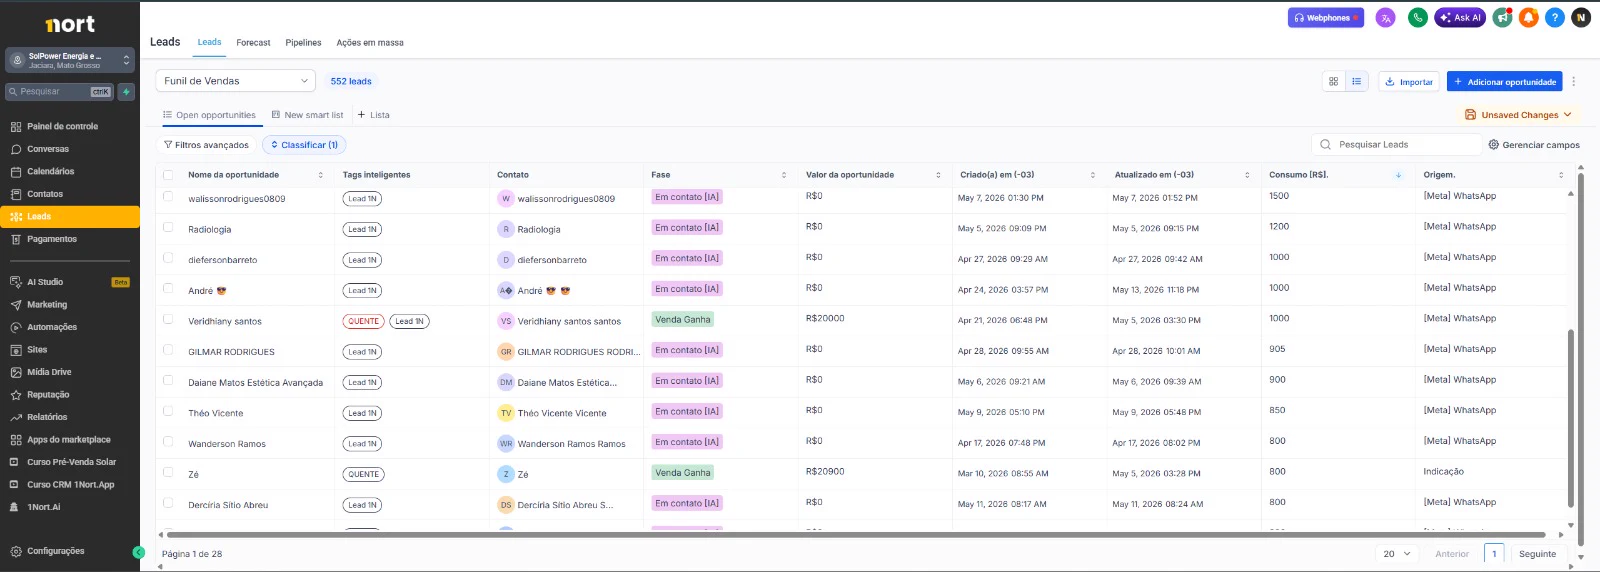
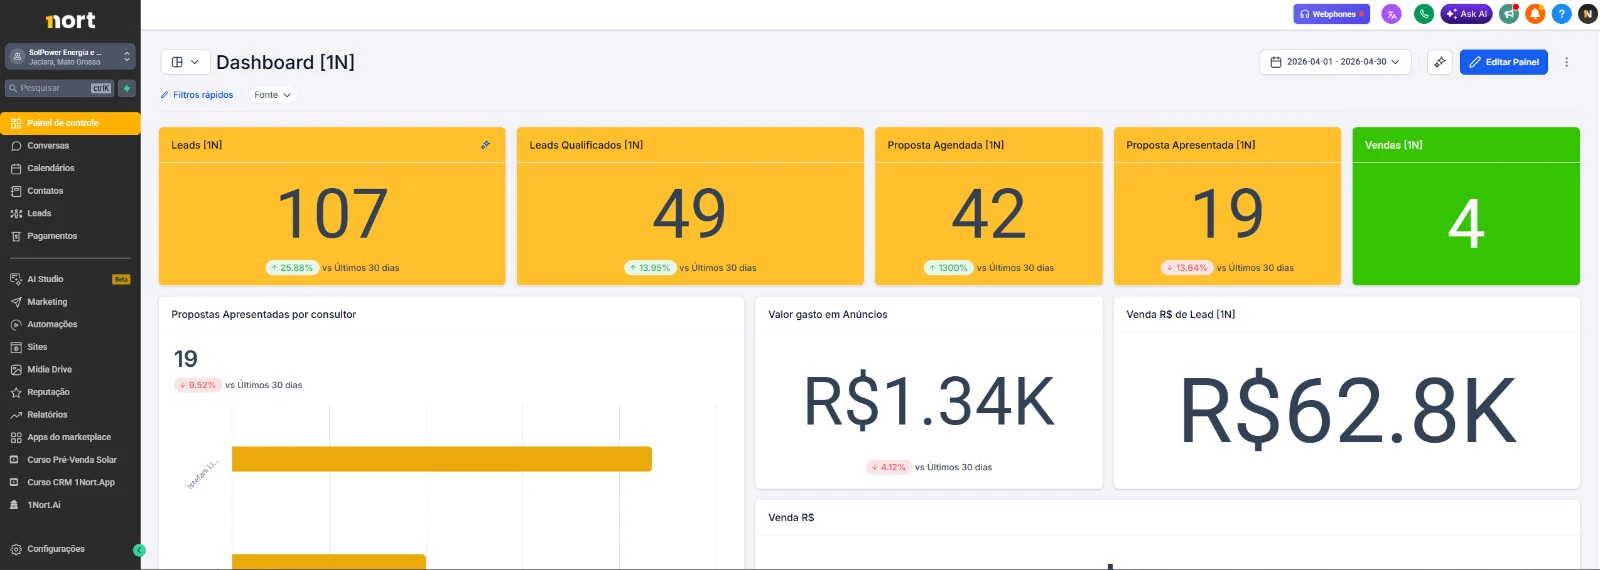
Sistema 1Nort (Sec O): 4 imagens painel-solar 1-4 substituem sistema antigas. Dash CRM Sec R: imagem correta Dashboard [1N] com KPIs (Leads/Vendas/Anuncios). CSS: object-fit contain pra nao cortar, setas dos carrosseis maiores (54px) com fundo amarelo translucido + hover preenchido

diff --git a/index.html b/index.html
@@ -1044,39 +1044,32 @@
           <div class="ia-system__viewport">
             <div class="ia-system__track" data-track>
               <figure class="ia-system__slide" data-zoom>
-                <img src="assets/images/dash-crm-1nort.webp" alt="Dashboard CRM 1Nort" loading="lazy" />
+                <img src="assets/images/sistema-1.webp" alt="Painel solar 1Nort · tela 1" loading="lazy" />
                 <button class="ia-system__zoom" aria-label="Expandir imagem">
                   <svg width="16" height="16" viewBox="0 0 24 24" fill="none"><path d="M15 3h6v6M9 21H3v-6M21 3l-7 7M3 21l7-7" stroke="currentColor" stroke-width="2" stroke-linecap="round" stroke-linejoin="round"/></svg>
                 </button>
-                <figcaption>Dashboard de leads e conversões</figcaption>
+                <figcaption>Painel 1Nort em operação</figcaption>
               </figure>
               <figure class="ia-system__slide" data-zoom>
-                <img src="assets/images/painel-ferramenta-1nort.webp" alt="Painel da ferramenta 1Nort" loading="lazy" />
+                <img src="assets/images/sistema-2.webp" alt="Painel solar 1Nort · tela 2" loading="lazy" />
                 <button class="ia-system__zoom" aria-label="Expandir imagem">
                   <svg width="16" height="16" viewBox="0 0 24 24" fill="none"><path d="M15 3h6v6M9 21H3v-6M21 3l-7 7M3 21l7-7" stroke="currentColor" stroke-width="2" stroke-linecap="round" stroke-linejoin="round"/></svg>
                 </button>
-                <figcaption>Painel operacional do funil</figcaption>
+                <figcaption>Painel 1Nort em operação</figcaption>
               </figure>
               <figure class="ia-system__slide" data-zoom>
-                <img src="assets/images/crm-lead-dissinho.webp" alt="Lead detalhado no CRM" loading="lazy" />
+                <img src="assets/images/sistema-3.webp" alt="Painel solar 1Nort · tela 3" loading="lazy" />
                 <button class="ia-system__zoom" aria-label="Expandir imagem">
                   <svg width="16" height="16" viewBox="0 0 24 24" fill="none"><path d="M15 3h6v6M9 21H3v-6M21 3l-7 7M3 21l7-7" stroke="currentColor" stroke-width="2" stroke-linecap="round" stroke-linejoin="round"/></svg>
                 </button>
-                <figcaption>Histórico completo de cada lead</figcaption>
+                <figcaption>Painel 1Nort em operação</figcaption>
               </figure>
               <figure class="ia-system__slide" data-zoom>
-                <img src="assets/images/funil-automacoes-kommo.webp" alt="Automações Kommo" loading="lazy" />
+                <img src="assets/images/sistema-4.webp" alt="Painel solar 1Nort · tela 4" loading="lazy" />
                 <button class="ia-system__zoom" aria-label="Expandir imagem">
                   <svg width="16" height="16" viewBox="0 0 24 24" fill="none"><path d="M15 3h6v6M9 21H3v-6M21 3l-7 7M3 21l7-7" stroke="currentColor" stroke-width="2" stroke-linecap="round" stroke-linejoin="round"/></svg>
                 </button>
-                <figcaption>Automações conectadas ponta a ponta</figcaption>
-              </figure>
-              <figure class="ia-system__slide" data-zoom>
-                <img src="assets/images/funil-vendas-ganhas.webp" alt="Funil de vendas ganhas" loading="lazy" />
-                <button class="ia-system__zoom" aria-label="Expandir imagem">
-                  <svg width="16" height="16" viewBox="0 0 24 24" fill="none"><path d="M15 3h6v6M9 21H3v-6M21 3l-7 7M3 21l7-7" stroke="currentColor" stroke-width="2" stroke-linecap="round" stroke-linejoin="round"/></svg>
-                </button>
-                <figcaption>Vendas ganhas e métricas em tempo real</figcaption>
+                <figcaption>Painel 1Nort em operação</figcaption>
               </figure>
             </div>
           </div>

diff --git a/css/style.css b/css/style.css
@@ -5413,8 +5413,9 @@ h1, h2, h3, h4, h5 {
 .ia-system__slide img {
   width: 100%;
   height: auto;
-  aspect-ratio: 16 / 9;
-  object-fit: cover;
+  aspect-ratio: 16 / 10;
+  object-fit: contain;
+  background: #0a0a0a;
   display: block;
   transition: transform 0.5s ease;
 }
@@ -5459,22 +5460,24 @@ h1, h2, h3, h4, h5 {
 
 .ia-system__arrow {
   flex-shrink: 0;
-  width: 46px;
-  height: 46px;
+  width: 54px;
+  height: 54px;
   border-radius: 50%;
-  border: 1px solid rgba(255, 255, 255, 0.14);
-  background: rgba(255, 255, 255, 0.04);
-  color: var(--c-text);
+  border: 1px solid rgba(255, 184, 0, 0.4);
+  background: rgba(255, 184, 0, 0.12);
+  color: var(--c-yellow);
   cursor: pointer;
   display: inline-flex;
   align-items: center;
   justify-content: center;
-  transition: background 0.2s ease, border-color 0.2s ease, color 0.2s ease;
+  transition: background .2s ease, border-color .2s ease, transform .15s ease;
+  box-shadow: 0 6px 20px rgba(0, 0, 0, 0.3);
 }
 .ia-system__arrow:hover:not(:disabled) {
-  background: rgba(255, 184, 0, 0.12);
+  background: var(--c-yellow);
   border-color: var(--c-yellow);
-  color: var(--c-yellow);
+  color: #0a0a0a;
+  transform: scale(1.06);
 }
 .ia-system__arrow:disabled { opacity: 0.35; cursor: not-allowed; }
 
